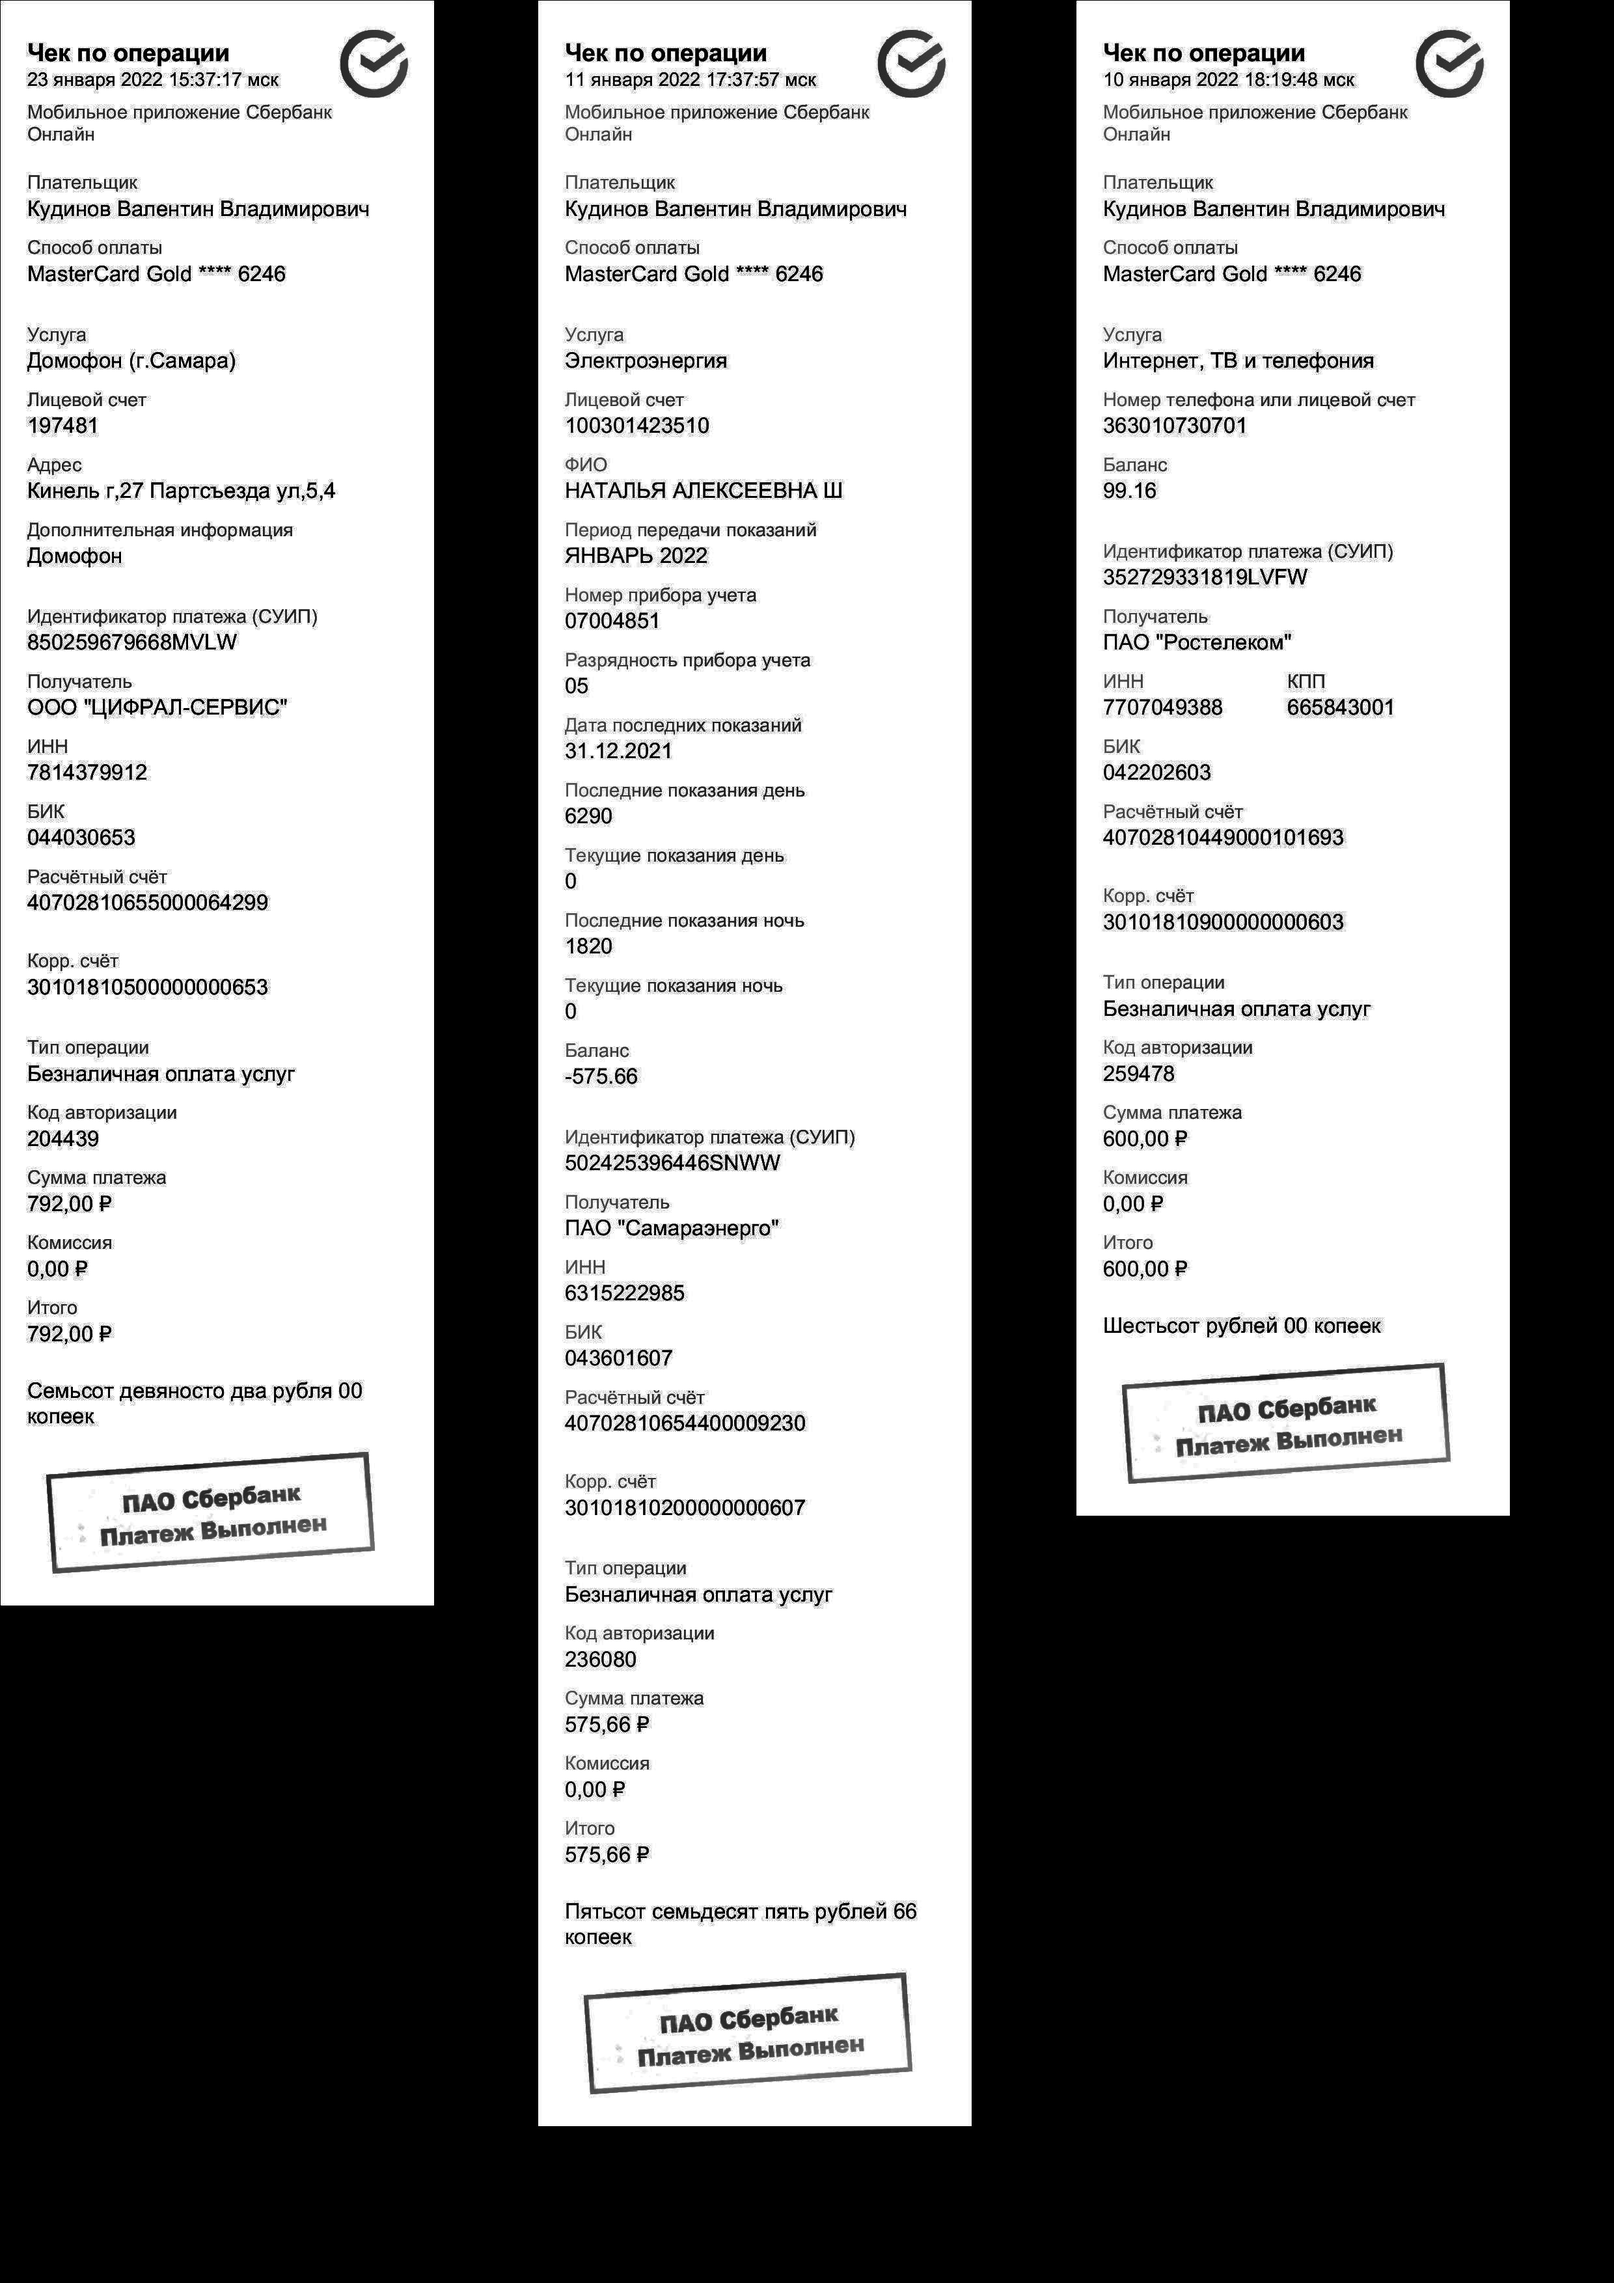
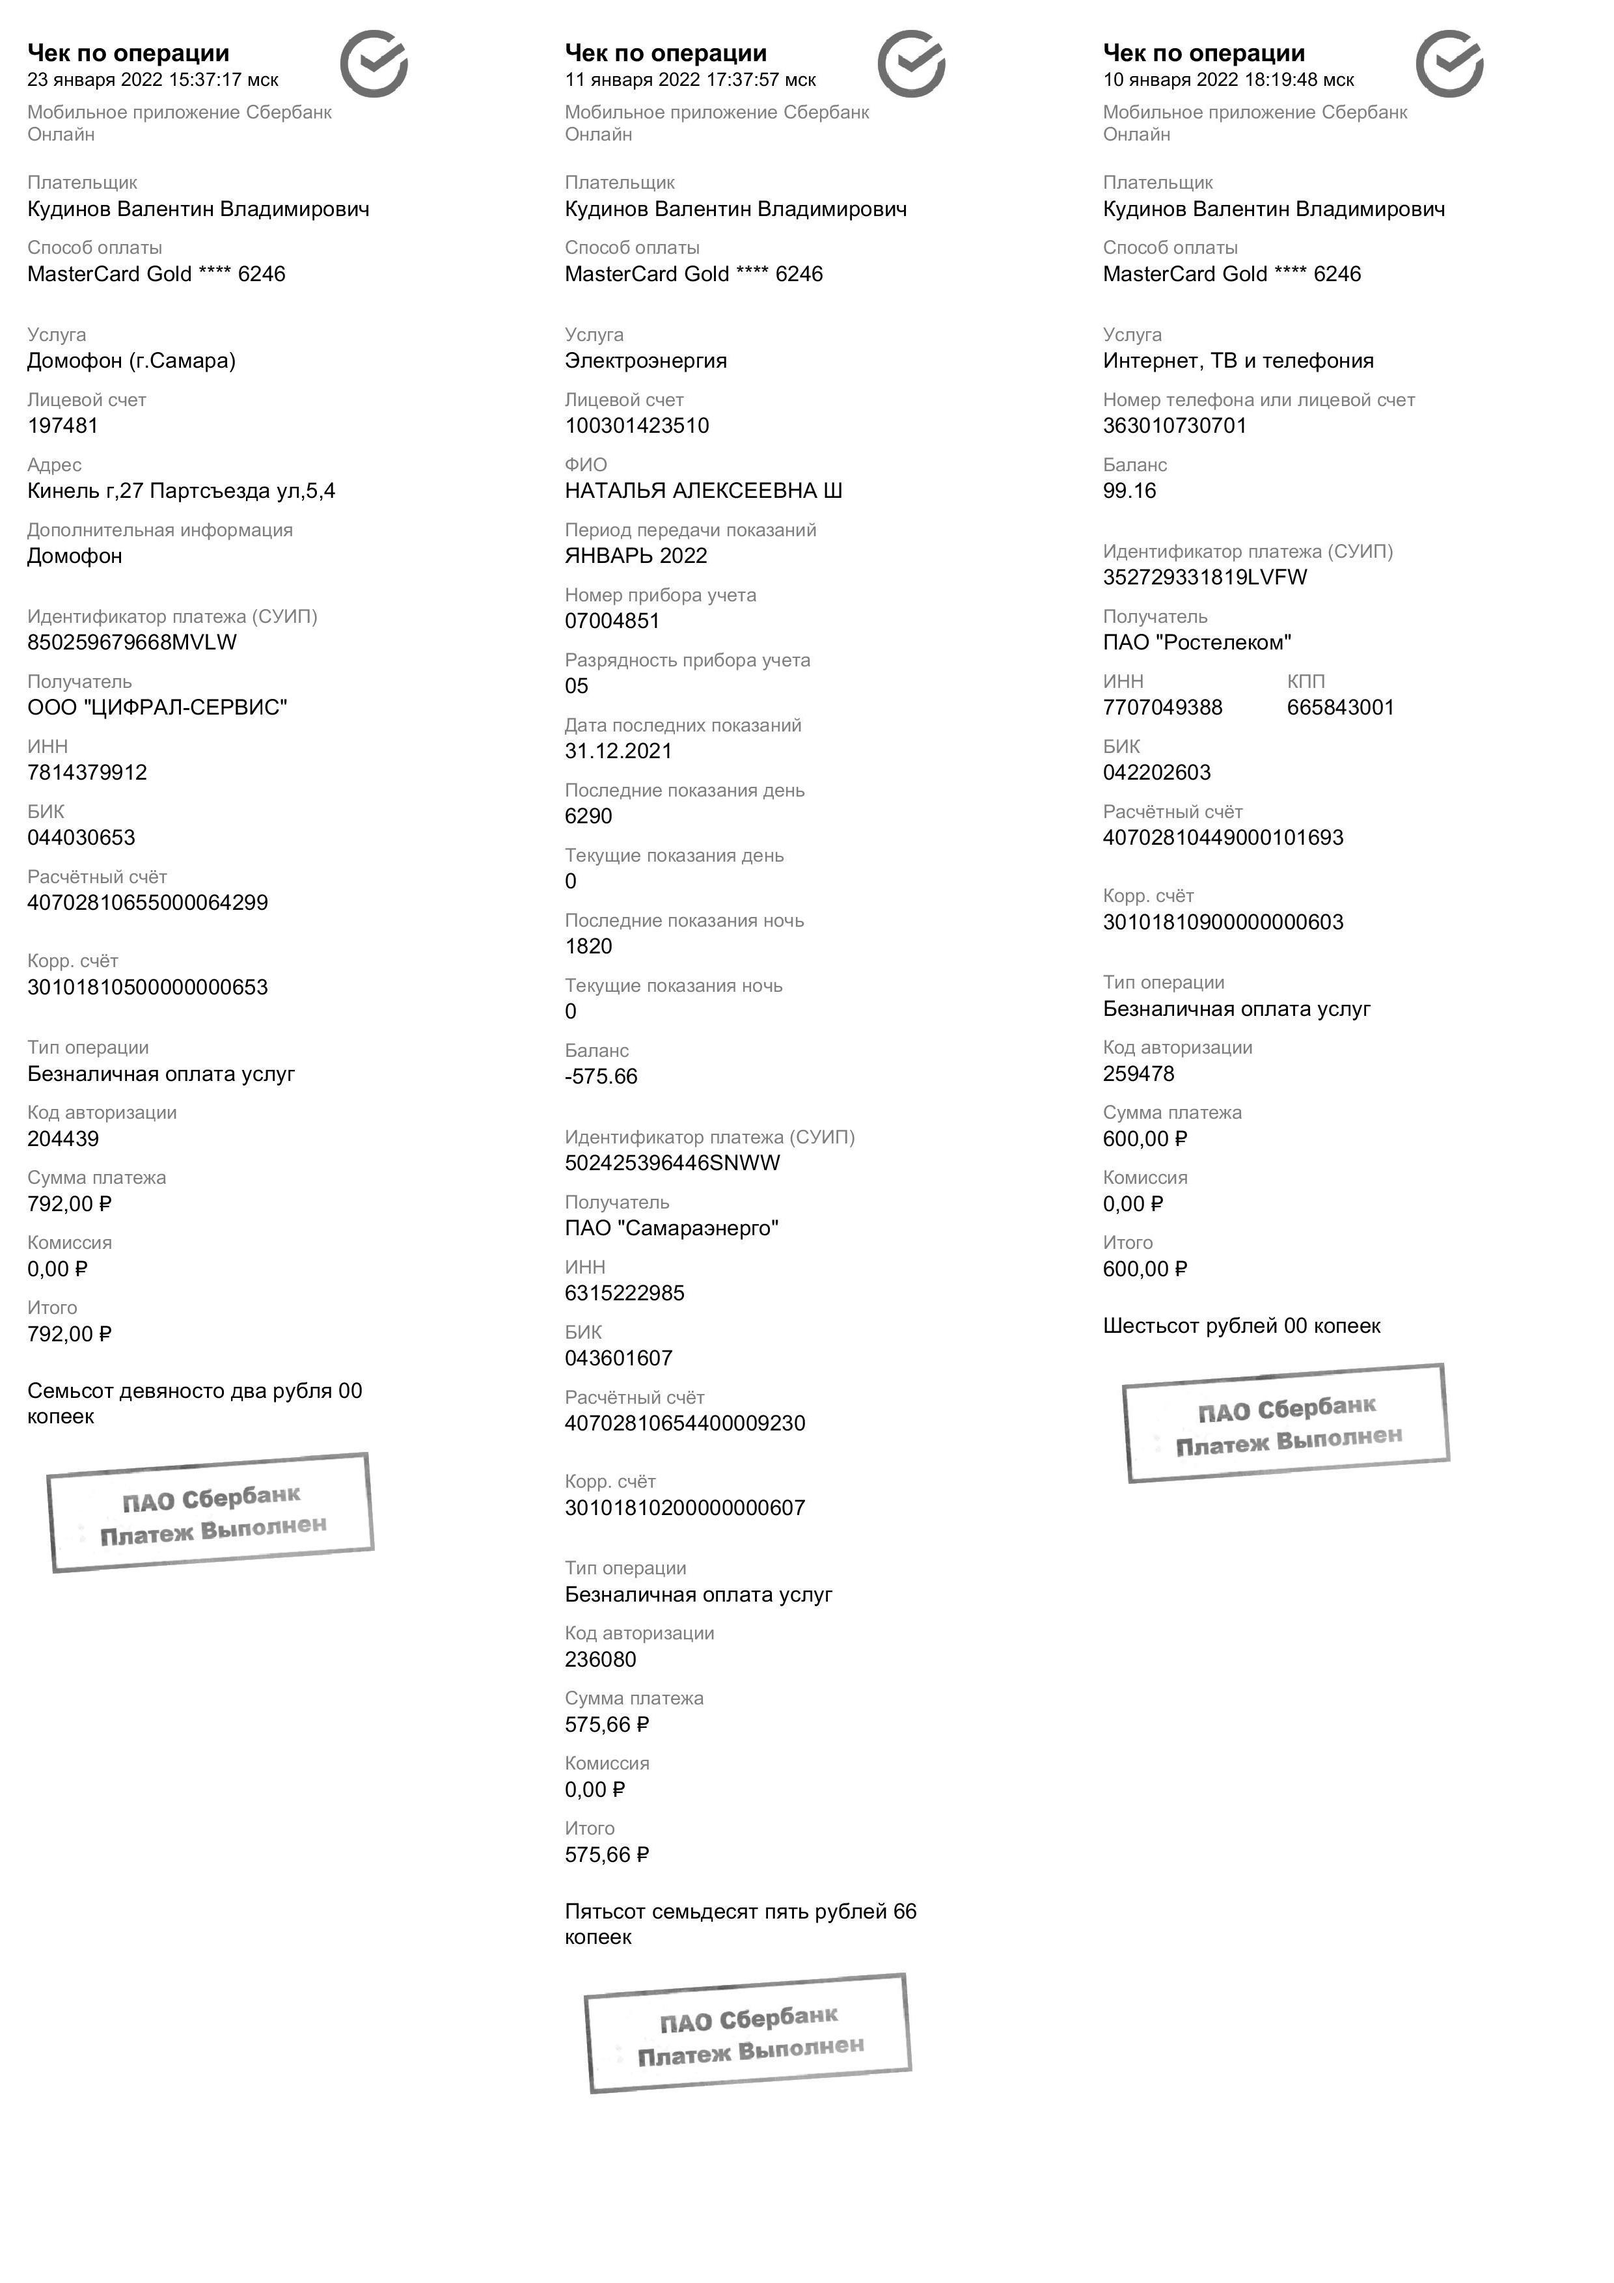
Blac in White

diff --git a/src/main/java/ru/print/check/Main.java b/src/main/java/ru/print/check/Main.java
@@ -256,6 +256,17 @@ public class Main {
         }
     }
 
+    static void blackInWhite(BufferedImage source) {
+
+        // Делаем двойной цикл, чтобы обработать каждый пиксель
+        for (int x = 0; x < source.getWidth(); x++) {
+            for (int y = 0; y < source.getHeight(); y++) {
+                // И устанавливаем белый цвет результирующего изображения
+                source.setRGB(x, y, -1);
+            }
+        }
+    }
+
     static void putImageToA4(List<Pixel[][]> listChecks) {
         // Открываем изображение
         LOGGER.info("Вставка чека в образец А4 ");
@@ -265,6 +276,8 @@ public class Main {
         try {
             // Создаем новое пустое изображение, такого же размера
             BufferedImage result = new BufferedImage(A4_WIDTH, A4_HEIGHT, 5);
+
+            blackInWhite(result);
 
             int numberCheck = 1;
             String pathname = getNameForNextA4Page(numberPageA4ForPrint);
@@ -282,7 +295,7 @@ public class Main {
                     output = new File(getNameForNextA4Page(numberPageA4ForPrint));
                     result = new BufferedImage(A4_WIDTH, A4_HEIGHT, 5);
                     numberCheck = 1;
-
+                    blackInWhite(result);
                 }
 
                 putImageInPage(listChecks.get(i), numberCheck, result);
